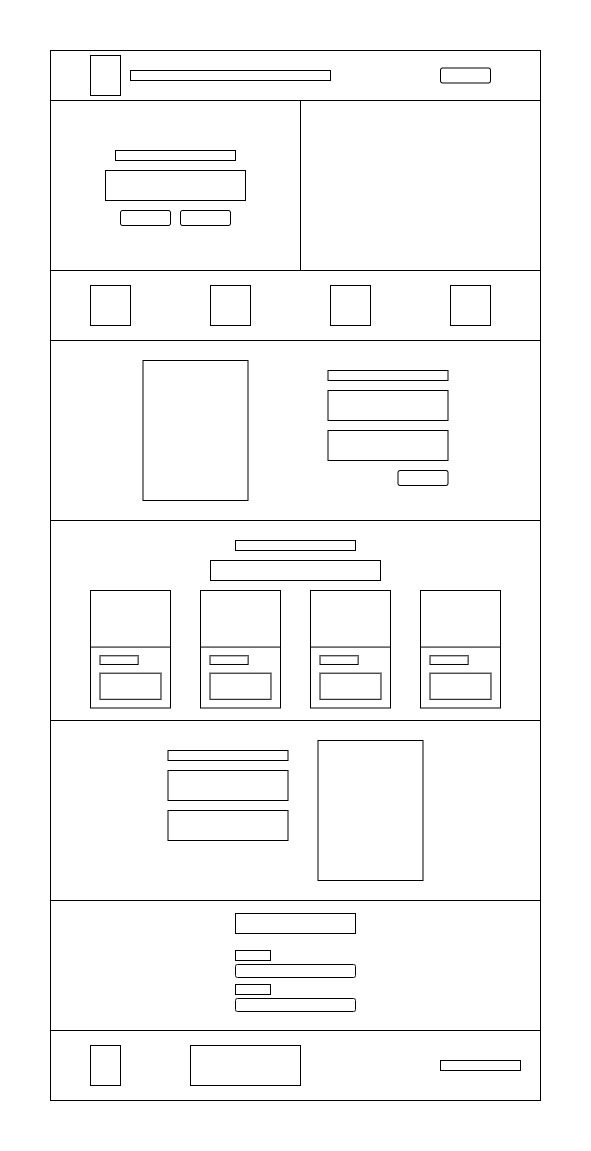
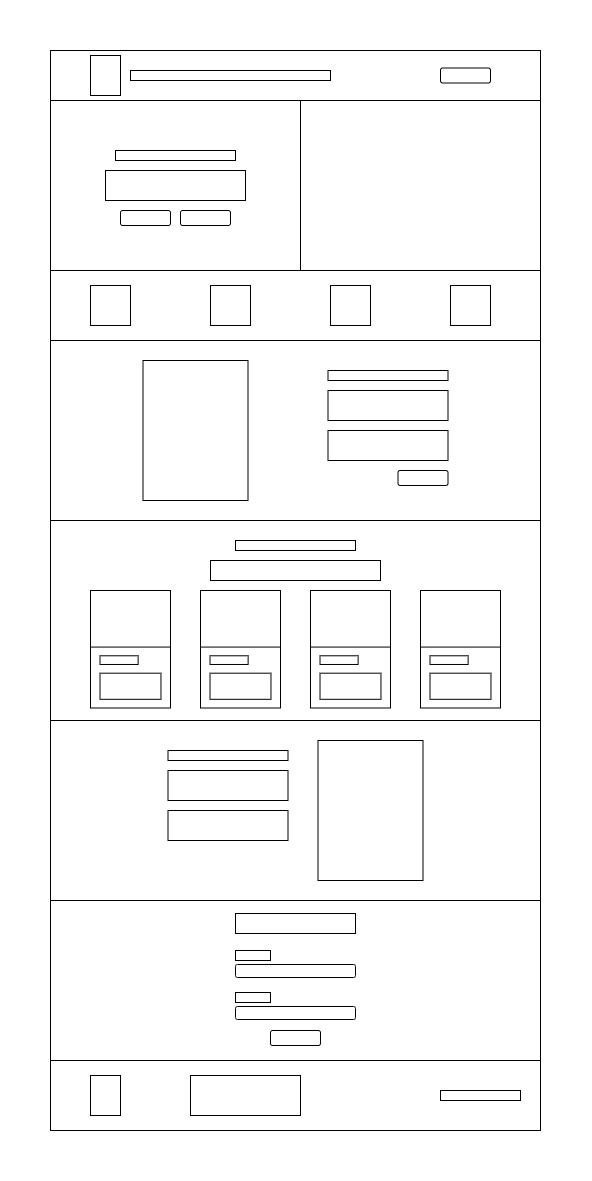
se ajusta clases de bootstrap y diagrama del sitio

diff --git a/index.html b/index.html
@@ -31,7 +31,7 @@
                 </button>
                 <div class="collapse navbar-collapse" id="navbarNavDropdown">
                     <div class="d-flex justify-content-md-between justify-content-start flex-column flex-lg-row w-100">
-                        <ul class="navbar-nav">
+                        <ul class="navbar-nav mb-3 mb-lg-0">
                             <li class="nav-item">
                                 <a class="nav-link active" aria-current="page" href="#nosotros">Nosotros</a>
                             </li>
@@ -46,7 +46,7 @@
                                         class="badge text-bg-danger">Nuevo</span></a>
                             </li>
                         </ul>
-                        <a href="#puntos" class="btn btn-outline-success m-0">Iniciar Sesión</a>
+                        <a href="#puntos" class="btn btn-outline-success m-0 mb-3 mb-lg-0">Iniciar Sesión</a>
                     </div>
                 </div>
             </div>
@@ -55,17 +55,17 @@
             <div class="container-fluid">
                 <div class="row">
                     <div
-                        class="col-12 col-md-6 box-banner d-flex justify-content-center align-items-center flex-column py-5 py-md-0">
+                        class="col-12 col-md-7 col-lg-6 box-banner d-flex justify-content-center align-items-center flex-column py-5 py-md-0">
                         <div class="info-banner">
                             <p>Bienvenido a Café y Brownie</p>
                             <h1 class="titulo fw-bold py-3 py-md-0">Disfruta tu mañana con un buen café </h1>
-                            <div class="d-flex pt-4">
-                                <a href="#que-ofrecemos" class="btn btn-primary">Servicios</a>
+                            <div class="d-flex flex-column flex-sm-row pt-4">
+                                <a href="#que-ofrecemos" class="btn btn-primary mb-3 mb-sm-0">Servicios</a>
                                 <a href="#cafe-dia" class="btn btn-secondary">Café del día</a>
                             </div>
                         </div>
                     </div>
-                    <div class="col-12 col-md-6 img-banner"></div>
+                    <div class="col-12 col-md-5 col-lg-6 img-banner"></div>
                 </div>
             </div>
         </section>
@@ -167,7 +167,7 @@
         </section>
         <!-- cafe del dia -->
         <section id="cafe-dia" class="container-fluid p-0 p-sm-5">
-            <div class="container">
+            <div class="container pt-5 pt-sm-0">
                 <div class="row">
                     <div
                         class="col-12 col-md-6 px-3 p-lg-5 d-flex flex-column justify-content-center align-items-center">
@@ -188,17 +188,18 @@
         </section>
         <!-- puntos -->
         <section id="puntos" class="container-fluid bg-light py-5">
-            <div class="offset-md-4 col-12 col-md-4">
-
-                <h2 class="text-center pb-5 fw-bold">Para ver sus puntos inicie sesión</h2>
-                <div class="col-12 ">
-                    <label for="inputPassword5" class="form-label text-start">Usuario</label>
-                    <input class="form-control" type="text" aria-label="default input example">
-                    <label for="inputPassword5" class="form-label text-start">Password</label>
-                    <input type="password" id="inputPassword5" class="form-control"
-                        aria-describedby="passwordHelpBlock">
-                    <div class="text-center mt-5">
-                        <a href="" class="btn btn-outline-success">Iniciar Sesión</a>
+            <div class="container">
+                <div class="offset-md-3 col-md-6 offset-lg-4 col-lg-4 col-12">
+                    <h2 class="text-center pb-5 fw-bold">Para ver sus puntos inicie sesión</h2>
+                    <div class="col-12 ">
+                        <label for="inputPassword5" class="form-label text-start">Usuario</label>
+                        <input class="form-control mb-4" type="text" aria-label="default input example">
+                        <label for="inputPassword5" class="form-label text-start">Password</label>
+                        <input type="password" id="inputPassword5" class="form-control"
+                            aria-describedby="passwordHelpBlock">
+                        <div class="text-center mt-5">
+                            <a href="" class="btn btn-outline-success">Iniciar Sesión</a>
+                        </div>
                     </div>
                 </div>
             </div>

diff --git a/css/estilos.css b/css/estilos.css
@@ -43,7 +43,7 @@ body {
 
 /* boton personalizado */
 .btn{
-    width: 160px;
+    width: 200px;
     margin: 0 10px;
 }
 .btn-primary {
